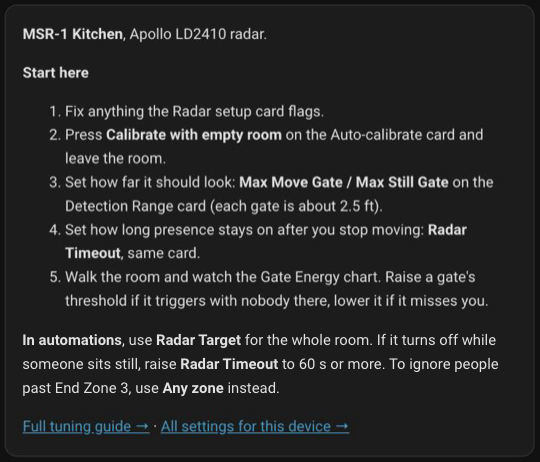
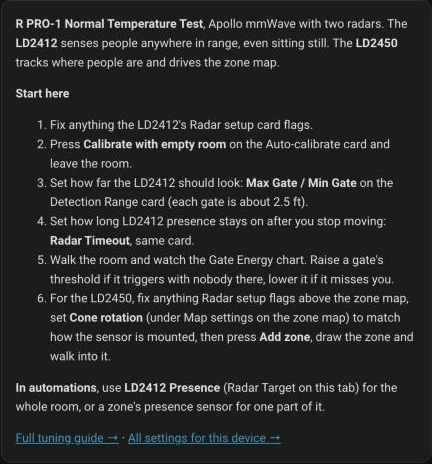
docs: use real Home Assistant captures for the Apollo mmWave Start here, LD2450 Live and Auto-calibrate images (#1232)

Changed region(s): [[0.0301, 0.0303, 0.963, 0.9697]]

diff --git a/docs/products/general/setup/apollo-mmwave-dashboard.md b/docs/products/general/setup/apollo-mmwave-dashboard.md
@@ -36,9 +36,9 @@ Every tab starts with a **Start here** card that lists your sensor's first steps
     - **On MSR-1 and MSR-2 tabs**, a line under the Gate Energy chart says whether the radar reports a target: [Third column](#third-column).
     - **After an update**, the cards tell you when the page needs a reload: [Load the new cards](apollo-mmwave-dashboard-setup.md#load-the-new-cards).
 
-Here's the **Start here** card on an MSR-1. On an MTR-1, or an R PRO-1 without the LD2412, it lists three zone map steps instead, and on an R PRO-1 with the LD2412 it covers both radars.
+Here's the **Start here** card on an R PRO-1 with the LD2412, which covers both radars. On an MSR-1 or MSR-2 it lists five steps for its one radar, and on an MTR-1, or an R PRO-1 without the LD2412, three zone map steps.
 
-![The Start here card for an MSR-1 named MSR-1 Kitchen, with five numbered steps: fix anything the Radar setup card flags, press Calibrate with empty room, set Max Move Gate and Max Still Gate (each gate is about 2.5 ft), set Radar Timeout, and walk the room while you watch the Gate Energy chart, then the line In automations, use Radar Target for the whole room. If it turns off while someone sits still, raise Radar Timeout to 60 s or more. To ignore people past End Zone 3, use Any zone instead., followed by the Full tuning guide and All settings for this device links](/assets/apollo-mmwave-start-here.png)
+![The Start here card for an R PRO-1 named R PRO-1 Normal Temperature Test, Apollo mmWave with two radars: the LD2412 senses people anywhere in range, even sitting still, and the LD2450 tracks where people are and drives the zone map. Six numbered steps follow: fix anything the LD2412's Radar setup card flags, press Calibrate with empty room on the Auto-calibrate card and leave the room, set Max Gate and Min Gate on the Detection Range card (each gate is about 2.5 ft), set Radar Timeout on the same card, walk the room while you watch the Gate Energy chart, and for the LD2450 fix anything Radar setup flags above the zone map, set Cone rotation under Map settings, then press Add zone, draw the zone, and walk into it. Then the line In automations, use LD2412 Presence (Radar Target on this tab) for the whole room, or a zone's presence sensor for one part of it., followed by the Full tuning guide and All settings for this device links](/assets/apollo-mmwave-start-here.png)
 
 !!! note "Before you start"
 
@@ -239,7 +239,7 @@ Every R PRO-1 has an LD2450 radar, and the optional LD2412 addon adds a second o
 - There is no Zone Config card, and the Distances chart shows the gates and the Max Gate and Min Gate bars without live distance bars.
 - Before it writes, the calibration asks the radar for its current thresholds (**Reading the radar's current thresholds...**), so what it saves for Undo matches the radar.
 
-![The Auto-calibrate card on an R PRO-1, titled LD2412 · R PRO-1 Server Rack, with a fourth checklist item asking you to run Start Dynamic Background Correction first, and under the checklist the reminder to raise Radar Timeout to 60 s or more if Radar Target turns off while someone sits still](/assets/apollo-mmwave-calibrate-r-pro-1.png)
+![The Auto-calibrate card on an R PRO-1, titled LD2412 · R PRO-1 Normal Temperature Test, with a fourth checklist item asking you to run Start Dynamic Background Correction first, the reminder to raise Radar Timeout to 60 s or more if Radar Target turns off while someone sits still, the Calibrate with empty room and Preview only buttons, then Last calibrated Oct 21, 08:02 AM, 7 of 28 thresholds changed., the Undo (restore your previous values) button with Saved Oct 21, 08:02 AM. under it, and Show last result](/assets/apollo-mmwave-calibrate-r-pro-1.png)
 
 The LD2412 also has its own background learning, **Start Dynamic Background Correction** on the **LD2412 Controls** card. It runs on the radar chip and stores its result inside the radar. **Background Correction Running** shows whether it is still working. Use both, in this order:
 
@@ -510,7 +510,7 @@ Reload the page after you add a zone, and the **Zone presence** card next to the
 
 Under it, **LD2450 Live** shows what the radar reports right now, with the radar's **Target Count** under its rows as a whole number. If the map shows no dot with you in the room, look here first: **LD2450 Presence** off means the radar itself reports nobody. It covers the radar's whole view, not one zone, and **Occupancy History** names its line **LD2450 Presence** too.
 
-![The LD2450 Live card on an R PRO-1 with nobody in the room: LD2450 Presence, Moving Target, and Still Target read Clear, and Target 1 to 3 Distance read Unknown with their Direction rows reading NA. A second card under it reads Target Count: 0, with the 0 in bold](/assets/apollo-mmwave-ld2450-live-count.png)
+![The LD2450 Live card on an R PRO-1 with one person in the room: LD2450 Presence, Moving Target, and Still Target read Detected, Target 1 Distance reads 15.6 in and Target 1 Direction reads Approaching, and Target 2 and 3 Distance read Unknown with their Direction rows reading NA. A second card under it reads Target Count: 1, with the 1 in bold](/assets/apollo-mmwave-ld2450-live-count.png)
 
 For an automation that covers the whole room rather than one zone, **Start here** names the sensor to use. On an MTR-1 it's **LD2450 Presence**. On an R PRO-1 whose firmware has **Combined Presence** (firmware newer than 26.3.2.1), it's **Combined Presence**, which is on while either radar sees someone. On earlier R PRO-1 firmware it's **LD2412 Presence**, or **LD2450 Presence** on an R PRO-1 without the LD2412.
 

diff --git a/docs/products/general/setup/apollo-mmwave-dashboard-setup.md b/docs/products/general/setup/apollo-mmwave-dashboard-setup.md
@@ -102,9 +102,6 @@ The cards on each tab are laid out in columns that stack into one on a phone. He
 Both sensors use the LD2410 radar chip, so their tabs look the same, and the tuning card titles start with **LD2410**.
 
 - **Start here** sits at the top. It names your sensor and lists five steps, from **Fix anything the Radar setup card flags.** to walking the room while you watch the Gate Energy chart. Under the steps it says to use **Radar Target** in automations for the whole room, and to raise **Radar Timeout** to 60 s or more if it turns off while someone sits still. Its links open the tuning guide on this wiki and your sensor's own page in Home Assistant.
-
-    ![The Start here card for an MSR-1 named MSR-1 Kitchen, with five numbered steps starting Fix anything the Radar setup card flags., then the line In automations, use Radar Target for the whole room., followed by the Full tuning guide and All settings for this device links](/assets/apollo-mmwave-start-here.png)
-
 - Under it, the **Radar setup** card checks the radar's settings and offers a fix when one is off. On a sensor that's ready to go it reads **Radar settings look good.**
 - **Auto-calibrate** comes next, with the **Calibrate with empty room** and **Preview only** buttons. If your sensor still has its factory thresholds and has never been calibrated, the card adds **These look like factory thresholds. Calibrating sets them for your room.**
 - The **LD2410 Gate Energy** chart is dimmed behind **Turn on Radar Engineering Mode to see gate energy values**, with a **Turn on Radar Engineering Mode** button below. That's expected: the radar only reports gate energy while **Radar Engineering Mode**, a diagnostic setting, is on. You don't need to press the button before calibrating; the calibration turns the mode on for its listen and puts it back the way it was afterward.
@@ -118,6 +115,9 @@ Both sensors use the LD2410 radar chip, so their tabs look the same, and the tun
 The R PRO-1 tab starts with the same tuning cards, titled **LD2412** instead of **LD2410**, for the optional LD2412 radar addon, and adds a zone map for its LD2450 radar. Without the addon, the LD2412 cards still appear but have no radar behind them, so skip to the zone map, and **Start here** gives the zone map steps instead. The differences from an MSR-2 tab:
 
 - **Start here** says what each radar is for: the LD2412 senses people anywhere in range, even sitting still, and the LD2450 tracks where people are and drives the zone map. For automations that cover the whole room, it names **Combined Presence** (on while either radar sees someone) on firmware newer than 26.3.2.1, which has that sensor, and **LD2412 Presence** on earlier firmware.
+
+    ![The Start here card for an R PRO-1 named R PRO-1 Normal Temperature Test, Apollo mmWave with two radars: the LD2412 senses people anywhere in range, even sitting still, and the LD2450 tracks where people are and drives the zone map. Six numbered steps follow, from Fix anything the LD2412's Radar setup card flags. to the LD2450's zone map steps, then the line In automations, use LD2412 Presence (Radar Target on this tab) for the whole room, or a zone's presence sensor for one part of it., followed by the Full tuning guide and All settings for this device links](/assets/apollo-mmwave-start-here.png)
+
 - **LD2412 Controls** adds **Start Dynamic Background Correction** and **Background Correction Running**. The Auto-calibrate card reminds you to run background correction first, with the room empty, and wait for its status to turn off before you calibrate.
 - **LD2412 Detection Range** holds **Radar Timeout**, **Max Gate**, and **Min Gate**, plus **Distance Resolution** if you've enabled that entity (it's hidden on a new sensor).
 - The thresholds cards and the Gate Energy chart cover 14 gates, **G0** to **G13**.
